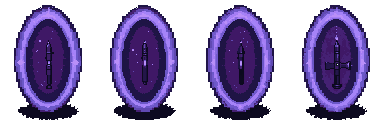
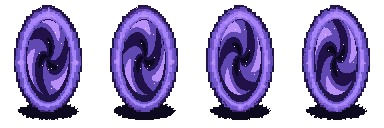
The maul as an iron block head on the hammer's handle, and the portal without the sword

diff --git a/game/art/NOTES.md b/game/art/NOTES.md
@@ -50,6 +50,10 @@
 
 - **蜜拉 `shawl` 造型（這輪重試成功）**：拿 `portrait.png` 當底，只對肩膀和上胸局部重繪（辮子、脖子、衣領不動）。第一次加不上披肩，第二次加強提示詞、強度 1.0 才畫出披肩；四張裡選了辮子還是一條的那張（另外三張多了一條辮子）。模型畫成藏青偏紫，換成深藍綠；胸前的結是紅色的繩結，不是披肩本身打結。表情 `dark`（含三張微表情）、`smile`、`shy` 直接用她那幾張臉在一般臉上改動的那些點，所以和一般造型的表情完全一致。
 
+- **雙手巨錘 `maul`（程式畫）**：模型畫的那張像海豹的臉。改成用 `hammer` 的握把（一格不動），錘頭用程式畫成比單手錘大一號的鐵塊：三階鋼色、左上一道白色高光、兩條黃銅箍。
+- **傳送門 `portal`**：光圈保留模型畫的；圈內那把劍（第四格是十字架）是用光圈本身的紫色畫的，顏色判斷抓不出來，所以圈內改用程式重畫：四階紫色的三臂漩渦加九顆星點，每格轉八分之一圈。
+- **婕焰小人、祭司側面背面、弓手背面、莫葛**：見下面的提交紀錄。莫葛頭上的三樣東西（橘色圓錐、火焰、十字架）拿掉，三個方向都畫上同一個小黃銅鐘（程式畫的 5 × 6）；背面裸露的手臂換成袍子的紅。弓手背面用模型重畫，兩條腿改成同一種米白，只在右緣留一格陰影。蜜拉的小人只把橄欖綠換成她立繪的藍綠（四個深淺對應過去）。
+
 ## 上一輪的總結
 
 清單第 0 到 6 項全部做完，每項都已提交並推到分支，`manifest.js` 都已登記。沒有跳過任何一項。
